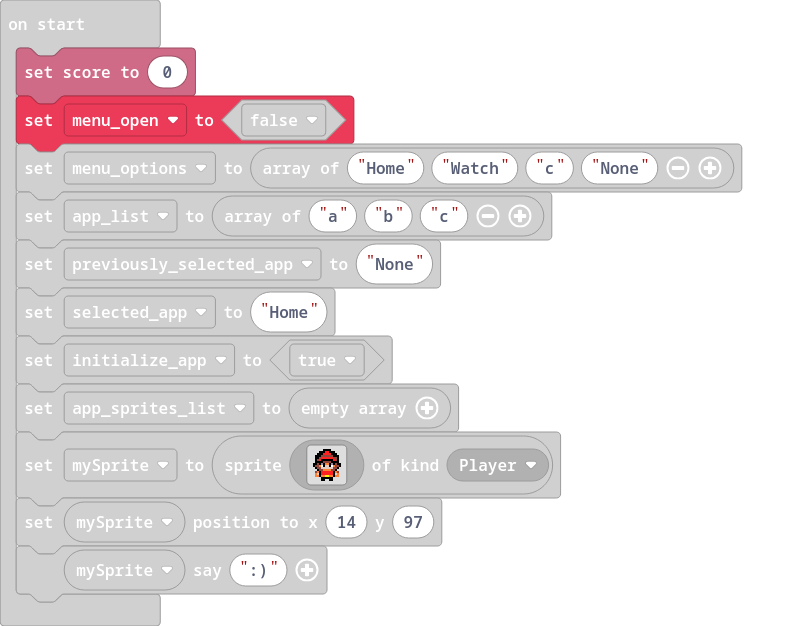
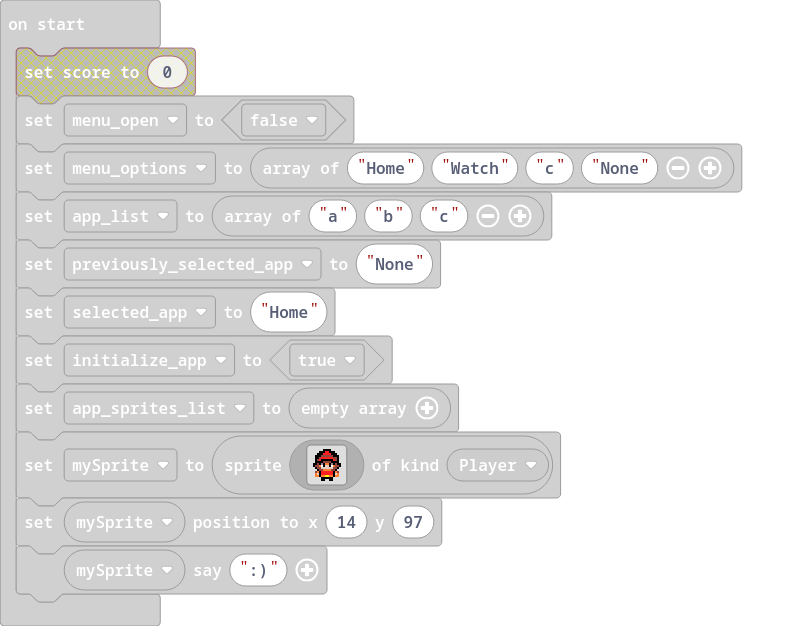
test -> reverting to normal

Changed region(s): [[0.0, 0.0607, 0.454, 0.2428], [0.5448, 0.6981, 0.6961, 0.7891]]

diff --git a/main.ts b/main.ts
@@ -38,7 +38,6 @@ let selected_app = ""
 let previously_selected_app = ""
 let menu_options: string[] = []
 let menu_open = false
-info.setScore(0)
 menu_open = false
 menu_options = ["Home", "Watch", "c", "None"]
 let app_list = ["a", "b", "c"]
